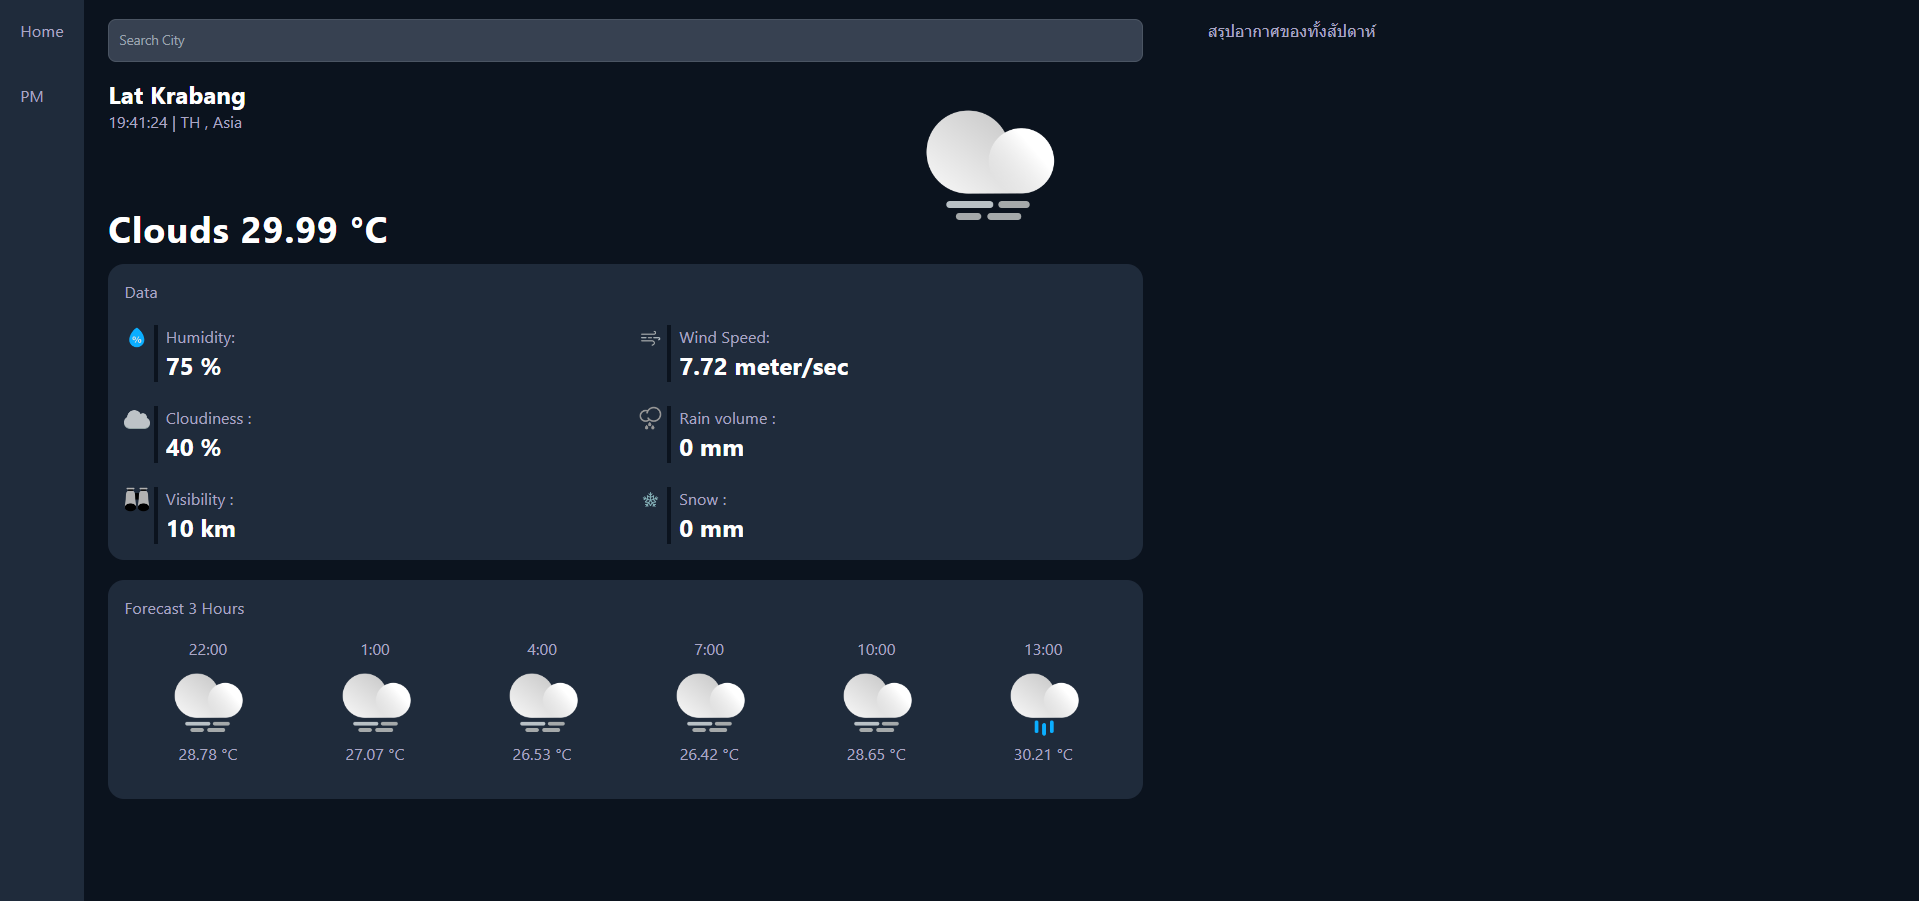
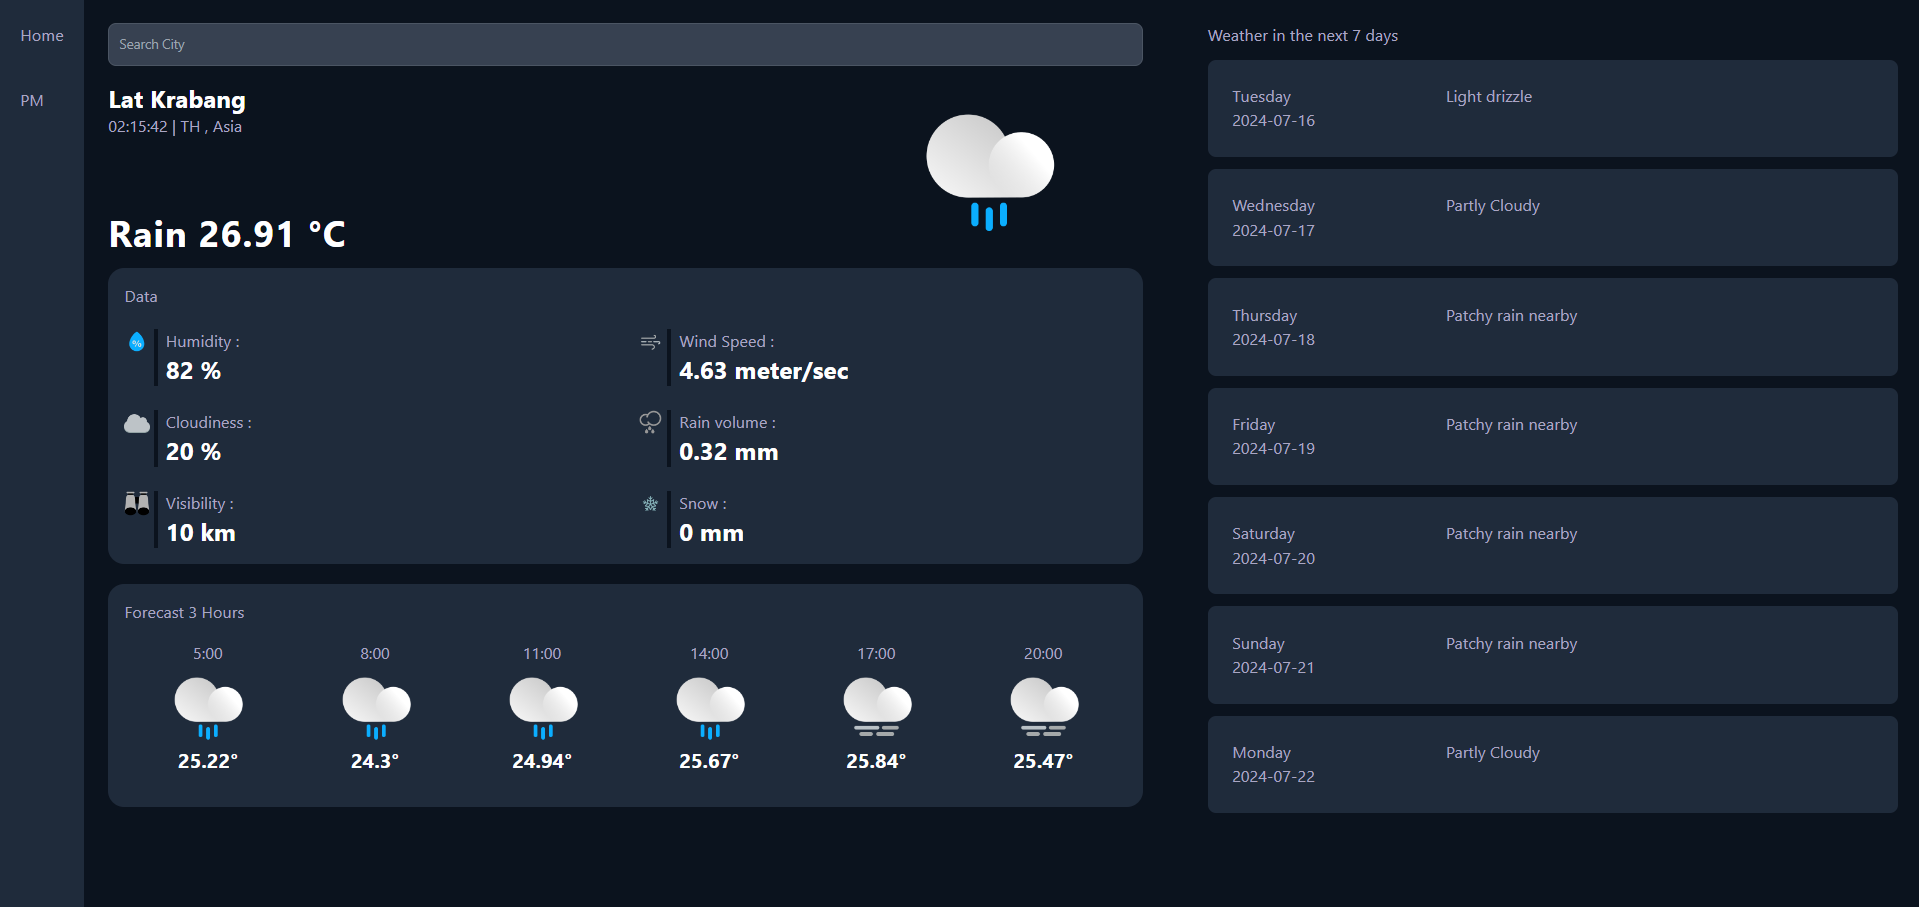
📝 ต่อไปหาค่าเฉลี่ยของTemp และ ใส่รูปภาพiconประกอบด้วย

diff --git a/vue_weather/src/views/HomePage.vue b/vue_weather/src/views/HomePage.vue
@@ -72,11 +72,13 @@
 
       <!-- right element -->
       <div class="flex flex-col w-[40%] ml-[4rem] ">
-        Weather in the next 6 days
-        <div v-show="dataForSevenDayForecast.length>0">
-          <div v-for="(weather) in dataForSevenDayForecast" :key="weather.date" class="bg-second mt-3 rounded-lg p-3">
-            <p>{{ weather.day }}</p>
-            <p>{{ weather.date }}</p>
+        Weather in the next 7 days
+        <div v-show="dataForSevenDayForecast.length > 0" >
+          <div v-for="(weather) in dataForSevenDayForecast" :key="weather.date" class="bg-second p-6 mt-3 rounded-lg grid grid-cols-3">
+            <div class="flex flex-col">
+              <p>{{ weather.day }}</p>
+              <p>{{ weather.date }}</p>
+            </div>
             <p>{{ weather.mostFrequentCondition }}</p>
           </div>
         </div>
@@ -244,15 +246,19 @@ export default {
 
 
         // // icon เปลี่ยนไปตาม สภาพภูมิอากาศ อันนี้เป็น icon ตามสภาพภูมิอากาศของ weatherapi.com
-        // const iconMap_weatherapi = {
-        //   Clouds: require("@/assets/icon/Clouds.png"),
-        //   Rain: require("@/assets/icon/Rain.png"),
-        //   Thunderstorm: require("@/assets/icon/Thunderstorm.png"),
-        //   Drizzle: require("@/assets/icon/Drizzle.png"),
-        //   Snow: require("@/assets/icon/Snow.png"),
-        //   Atmosphere: require("@/assets/icon/Atmosphere.png"),
-        //   Clear: require("@/assets/icon/Clear.png")
-        // };
+        const iconMap_weatherapi = {
+          Cloudy: require("@/assets/icon/Clouds.png"),
+          Light_rain: require("@/assets/icon/LightRain.png"),
+          Light_rain_shower: require("@/assets/icon/Drizzle.png"),
+          Light_drizzle: require("@/assets/icon/Clouds.png"),
+          Partly_Cloudy: require("@/assets/icon/Rain.png"),
+          Overcast: require("@/assets/icon/Atmosphere.png"),
+          Patchy_rain_nearby: require("@/assets/icon/Thunderstorm.png"),
+          Patchy_light_drizzle: require("@/assets/icon/Clear.png"),
+          Patchy_light_rain: require("@/assets/icon/Clear.png"),
+          // Patchy_light_drizzle: require("@/assets/icon/Clear.png"),
+        };
+        console.log(iconMap_weatherapi);
 
         // 📍 ต้องสมัครและรับ API key จาก WeatherAPI.com เพื่อพยากรณ์อากาศในอีก 7 วัน ====
         // Ref => https://www.weatherapi.com/my/
@@ -277,9 +283,9 @@ export default {
             // เป็นเทคนิคชื่อ "default value" หรือ "fallback value"
           });
 
-          console.log("frequencyMap : ", frequencyMap);
+          // console.log("frequencyMap : ", frequencyMap); // => frequencyMap: {Light rain shower: 3, "Partly Cloudy ": 1}
  
-      
+    
           let mostFrequentCondition = '';
           let highestFrequency = 0;
           for (const condition in frequencyMap) {

diff --git a/README.md b/README.md
@@ -409,6 +409,7 @@ data(){
 - https://cdnjs.com/libraries/font-awesome
 - https://openweathermap.org/api/one-call-3#current (weather api)
 - https://www.weatherapi.com/my/ (weather api forecast 7 day)
+- https://www.weatherapi.com/docs/ (weather api doc)
 - https://home.openweathermap.org/
 - https://tailwindcss.com/
 
